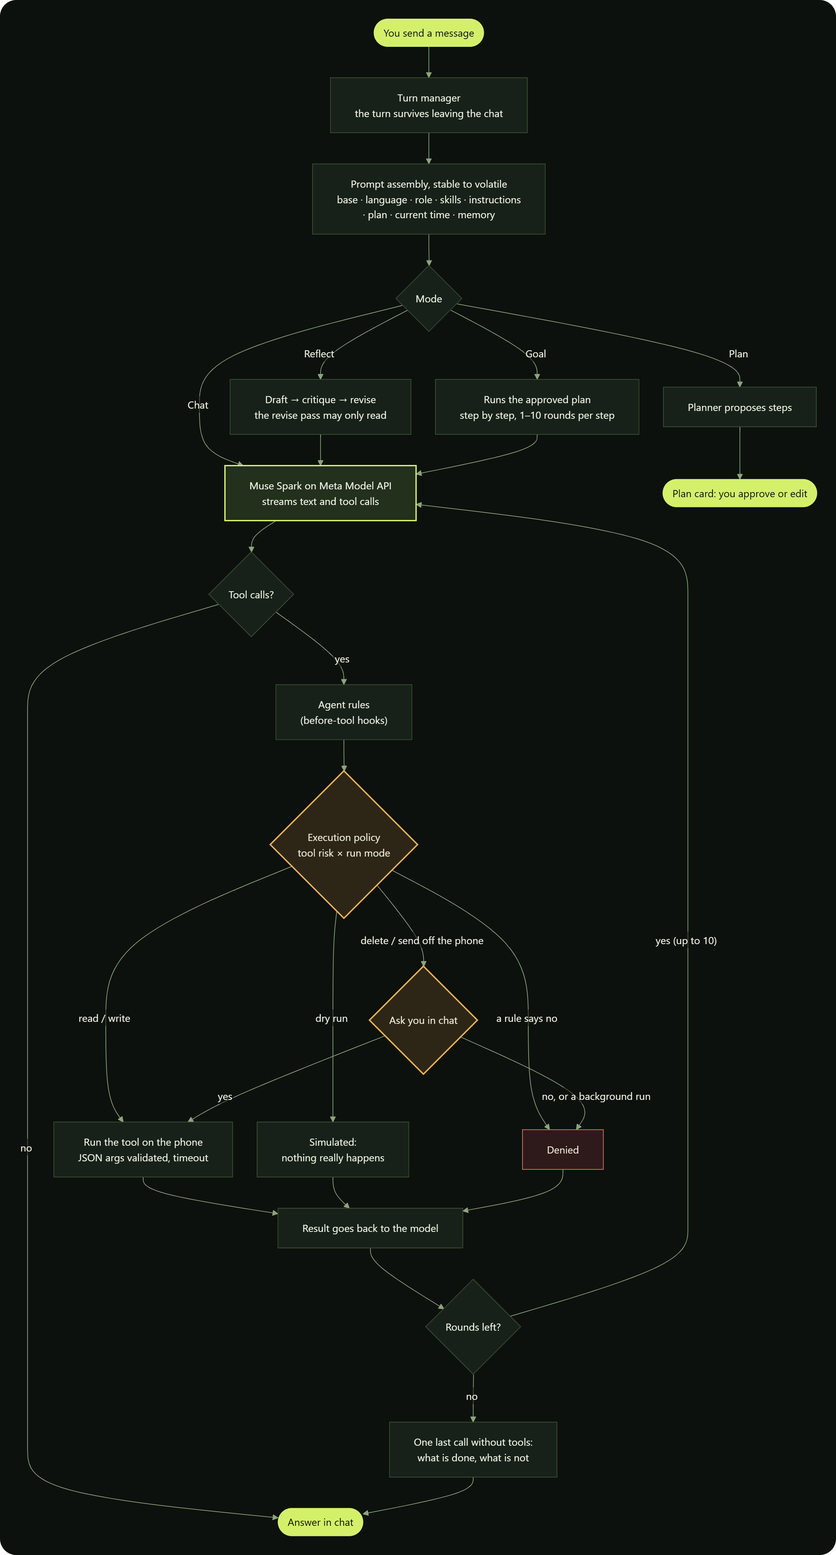
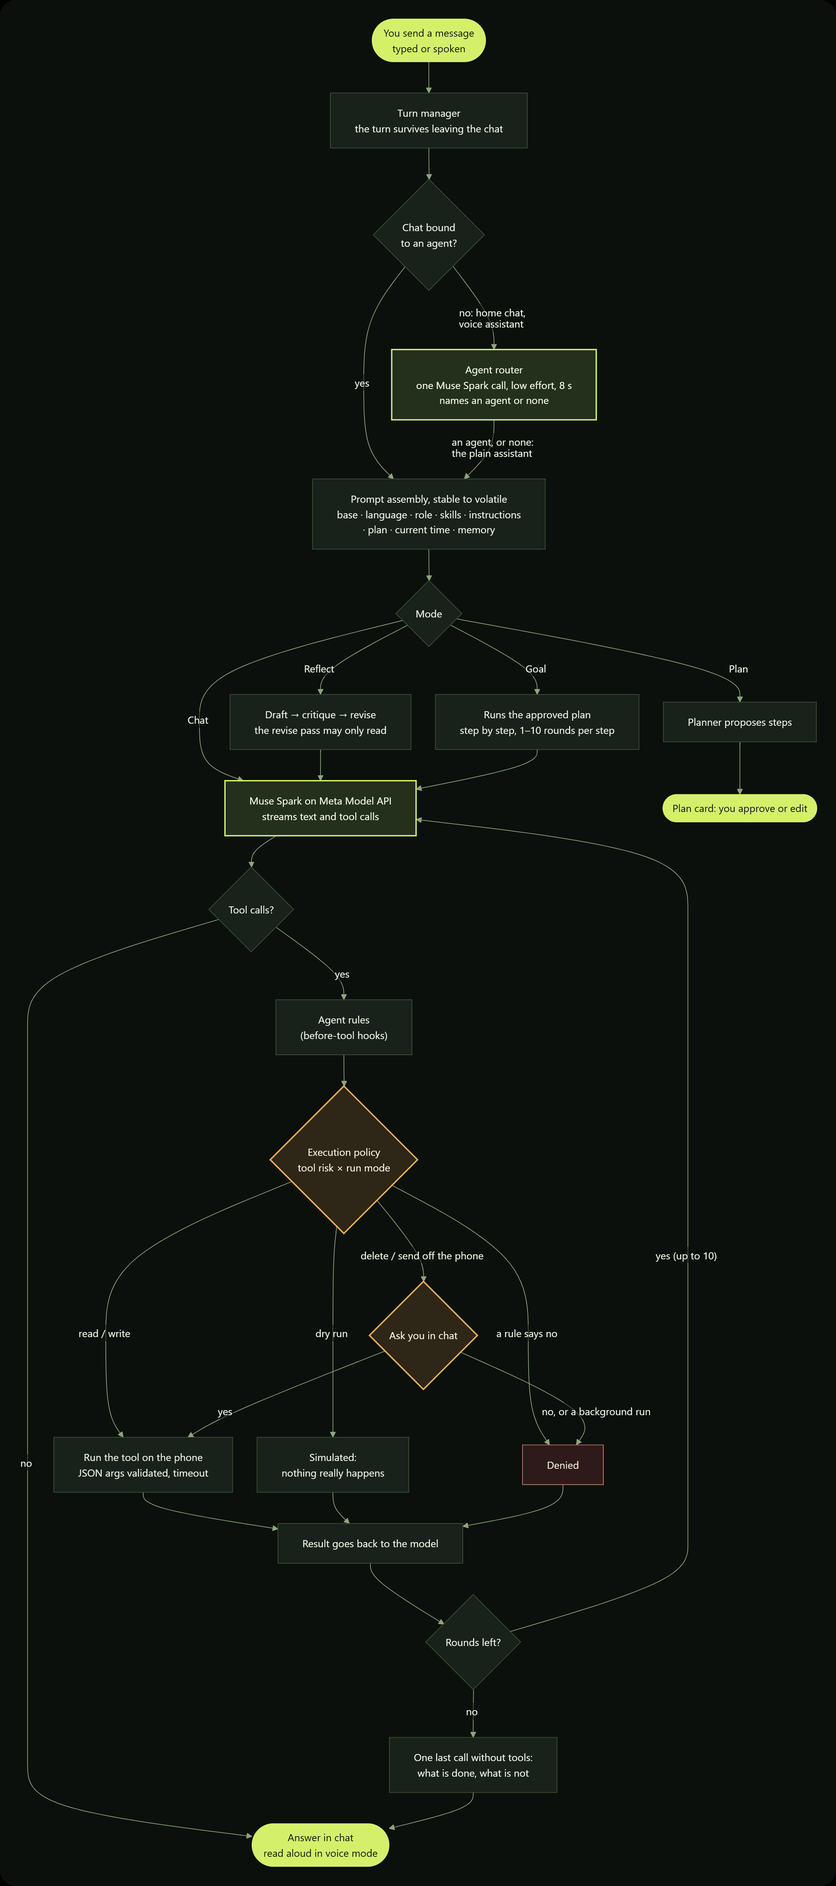
docs(readme): how it fits together, the agent loop, Meta and cloud screens
The README now explains the three places the project runs (phone, Meta
Model API, the forge) and walks through each with a diagram: an overview,
the agent turn with the new router step, which Meta endpoint and model each
feature uses, how one model call retries and falls back, the forge sequence
from publish to a verified bundle, and the states of a cloud screen on the
phone. Sources are Mermaid files in docs/diagrams, rendered once on the
app's dark palette as before.

Trace: cloud-forged-screens-40d702

diff --git a/README.md b/README.md
@@ -9,6 +9,7 @@ agents but too shy to ask.**
 ![Kotlin](https://img.shields.io/badge/Kotlin-2.3-7F52FF?logo=kotlin&logoColor=white)
 ![Jetpack Compose](https://img.shields.io/badge/Jetpack%20Compose-UI-4285F4?logo=jetpackcompose&logoColor=white)
 ![Meta Muse](https://img.shields.io/badge/Meta-Muse%20Spark%20%C2%B7%20Image%20%C2%B7%20SAM-0467DF?logo=meta&logoColor=white)
+![Ketoy](https://img.shields.io/badge/Ketoy-screens%20over%20the%20air-7CC7DB)
 ![License: MIT](https://img.shields.io/badge/License-MIT-lightgrey)
 
 <br/>
@@ -28,6 +29,14 @@ agents but too shy to ask.**
 <img src="docs/images/agent-detail.jpg" width="200" alt="One agent: tools, skills, rules and its instructions"/>
 </details>
 
+<br/>
+
+[How it fits together](#how-it-fits-together) ·
+[The agent loop](#the-agent-loop) ·
+[Working with Meta](#working-with-meta) ·
+[Screens from the cloud](#screens-from-the-cloud) ·
+[Build and run](#build-and-run)
+
 </div>
 
 AI Open Pocket is an Android platform for building AI agents on Meta's Muse models, with learning
@@ -44,36 +53,67 @@ for your yes.
 - 🛠 **Build.** Describe the agent in a chat: Muse Spark asks a few questions at a time, with 3–4
   options to tick, and writes the draft. Review every field on one screen, dry-run it, publish.
 - 🤖 **Run.** Agents live on the phone: a tool-calling loop, layered memory, web search, reminders,
-  background check-ins, and a plan engine whose steps are checked against evidence. The app can also
-  be the phone's voice assistant and read its replies aloud.
+  background check-ins, and a plan engine whose steps are checked against evidence.
+- 🧭 **Just ask.** The home chat and the voice assistant need no agent picked: Muse Spark hands each
+  message to the agent whose job it is ("remind me…" goes to Reminders), or answers itself.
+- 🎙 **Talk to it.** The app can be the phone's voice assistant: the assist button opens a chat that
+  is already listening, and the answer is read aloud.
+- ☁ **Give it an interface.** Tick "Own interface (beta)" when you publish: a coding agent on Muse
+  writes the agent a screen of its own in Compose, in the cloud, and the app renders it over the air.
+  No app update.
 - 🎓 **Learn.** 31 short lessons, from "what is an AI" to building your own agent, each with an
   interactive scene you can touch. Meta's models work live inside some of them.
 - 🔒 **Stay in control.** Reading and writing just happen. Deleting or sending anything off the device
   always asks you in chat, and is never done in the background.
-- ☁ **Give it an interface.** Tick "Own interface (beta)" when you publish an agent: a coding agent on
-  Muse writes it a screen of its own in Compose, in the cloud, and the app renders it over the air.
-  No app update.
 
-## How an agent turn works
+## How it fits together
 
-Every message you send becomes one *turn*. The turn belongs to the app, not to the screen: leave the
-chat and it keeps going. Inside, the same loop runs for every agent — the model thinks, calls tools,
+Three places, one key. **The phone** runs the agents: the router, the loop, the tools and your
+approvals all live in the app, and so does your data. **Meta's Model API** is the only place a model
+runs; the app talks to nothing else, on the key you entered. **The forge** is optional: a small
+server you run yourself, where a coding agent on the same Muse model writes screens for your agents.
+
+<p align="center"><img src="docs/images/diagram-architecture.png" width="760" alt="The phone (router, agent loop, on-device tools, the agent's own screen), Meta Model API (Muse Spark and Wonder, web_search, SAM 3.1, Muse Image) and the forge (gateway and worker)"/></p>
+
+## The agent loop
+
+Every message becomes one *turn*. The same loop runs for every agent — the model thinks, calls tools,
 reads their results, and repeats until it can answer.
 
-<p align="center"><img src="docs/images/diagram-agent-turn.png" width="860" alt="One agent turn: prompt assembly, the mode, Muse Spark, tool calls through the execution policy and your approval, up to 10 rounds, then the answer"/></p>
+<p align="center"><img src="docs/images/diagram-agent-turn.png" width="860" alt="One agent turn: turn manager, the router for unbound chats, prompt assembly, the mode, Muse Spark, tool calls through the execution policy and your approval, up to 10 rounds, then the answer"/></p>
 
-Four things keep this loop honest:
+Step by step:
 
-- **Risk classes.** Every tool call is `READ`, `WRITE`, `DESTRUCTIVE` or `EXTERNAL`. The last two
-  always wait for a person, no rule can remove that floor, and a background run simply denies them.
-- **Errors the model can act on.** A failed tool, a timeout or arguments that are not valid JSON come
-  back as a tool result that names the real problem, so the model can fix its next call.
-- **Every run ends with an answer.** At the round limit the model gets one tool-less call to say what
-  it did and what is left.
-- **Plans are checked.** In Goal mode each plan step is verified against what the tools actually
-  returned before it counts as done.
+1. **The turn belongs to the app, not to the screen.** A turn manager in the application scope owns
+   the stream, the tool loop and the final write to the database. Leave the chat, lock the phone —
+   the answer is there when you come back, and a turn that needs you sends a notification.
+2. **Who answers.** A chat opened from an agent's card is bound to that agent. The home chat and the
+   voice assistant are not, so before the turn starts the **router** makes one short Muse Spark call
+   (low reasoning effort, no tools, 8 seconds at most): it sees each agent's name, job and tools and
+   names one id, or `none`. Anything else — an unknown id, two ids, a timeout, an error — means the
+   plain assistant answers; routing is never the reason a message goes unanswered. The chip next to
+   the mode chips can also fix the choice: "auto", "no agent" or one agent. The answer is labelled
+   "→ Reminders", so you see who took it.
+3. **The prompt is assembled from stable to volatile:** base rules, language, the agent's role, the
+   catalog of its skills, its instructions, then the plan, the current time and what memory recalls.
+   The order is deliberate: Meta caches the shared prefix, so the stable part is not paid for twice.
+4. **The mode decides the shape of the turn.** Chat goes straight to the model. Reflect drafts,
+   critiques and revises (the revision may only read). Plan asks a planner for steps and shows them as
+   a card you approve or edit. Goal runs an approved plan step by step, and each step is checked
+   against what the tools actually returned before it counts as done.
+5. **The model streams text and tool calls.** Text appears as it is written; tool calls are collected
+   and run between rounds.
+6. **Every tool call passes the agent's rules and the execution policy.** Each tool has a risk class:
+   `READ`, `WRITE`, `DESTRUCTIVE` or `EXTERNAL`. Reads and writes run on the phone with validated JSON
+   arguments and a timeout. Deleting or sending off the phone waits for your "yes" in the chat; no rule
+   can remove that floor, and a background run simply denies it. A dry run simulates everything but
+   reads.
+7. **Errors go back to the model as results.** A failed tool, a timeout or arguments that are not
+   valid JSON return a message that names the real problem, so the next call can fix it.
+8. **Every run ends with an answer.** After 10 rounds the model gets one last call without tools to
+   say what is done and what is not.
 
-## What an agent is made of
+### What an agent is made of
 
 An agent is one immutable snapshot. Editing and publishing again produces a new version, so a turn
 that is already running never sees half an edit.
@@ -91,51 +131,45 @@ And this is how one gets from an idea to your roster:
 
 The Builder can only write a draft. Publishing is always a person tapping a button.
 
-<sub>The diagrams are drawn from Mermaid sources in <a href="docs/diagrams"><code>docs/diagrams/</code></a>.</sub>
+## Working with Meta
 
-## Cloud-forged screens
+Every model call goes to the **Meta Model API** (`api.meta.ai/v1`) on the key you enter, and nowhere
+else. There is no other provider, no bundled key and no silent switch to another vendor.
 
-An agent built on the phone can get a screen of its own without an app update. On the review page
-of the builder you choose where the agent lives: in the chat, or in its **own interface (beta)**.
-Publish, and the app queues a job at the **forge gateway** from the agent's name, description and
-instructions; the chat says "your interface is being built - use the chat meanwhile" and keeps
-working. A **worker** on a machine with the Android SDK runs our own tool-calling loop on Muse
-Spark - the same ReAct shape as the agent loop, with file and Gradle tools instead of phone tools -
-until one minimal screen compiles; the [Ketoy](https://ketoy.dev) compiler turns it into a signed
-bundle; the app downloads the bundle, checks its hash and signature, and from then on opens the
-agent in that screen, full screen, with the chat one tap away. The agent's card keeps the levers:
-the Chat / Own interface switch, "add a reset button" (the worker gets the current source back),
-Regenerate, and the agent's own question if the request was unclear.
+<p align="center"><img src="docs/images/diagram-meta-models.png" width="820" alt="Which part of the app uses which Meta endpoint and model: chat completions for agents and video, the Responses API for web search and SAM 3.1, image generations for Muse Image"/></p>
 
-```
-phone ──POST job──▶ gateway (Ktor, Fly.io) ◀──long-poll── worker (Muse Spark + Gradle + Ketoy)
-      ◀─poll/.ktx──                        ──.ktx──────▶
-```
-
-What has to agree on both sides: the forge's Ed25519 public key (shipped in the app's assets), the
-Ketoy version, and the entry-point name the worker reports. The gateway token and address are yours,
-entered in Settings; nothing is bundled into any build. The forge itself is a separate Gradle build
-in [`forge/`](forge/README.md): the compiler plugin pins Kotlin 2.0.21, the app stays on Kotlin 2.3.
-
-## Built on Meta models
-
-- **Muse Spark** — the brain of every agent: the tool loop, reflection, plans, the Builder chat,
-  onboarding and every lesson question. In the "How a model sees" lesson it also watches a short video
-  and explains what it saw and what it is unsure about.
+- **Muse Spark** is the brain of every agent: the tool loop, reflection, plans, the router, the
+  Builder chat, onboarding and every lesson question. In the "How a model sees" lesson it also
+  watches a short video and says what it saw and what it is unsure about.
 - **Muse Wonder** — an agent built for long multi-step work can run on it instead, as Meta's agent
-  guide suggests.
-- **Web search** — Meta's hosted `web_search` tool, reached through the Responses API, gives agents
-  fresh facts with links to the pages they came from.
-- **Muse Image** — illustrates the course (generated ahead of time and bundled, so lessons work
-  offline) and redraws a lesson scene around the learner on request.
+  guide suggests. The model is the agent's own setting; the app default is automatic.
+- **Web search** is Meta's hosted `web_search` tool, reached through the Responses API: an agent gets
+  fresh facts back with the pages they came from, and quotes them as links.
 - **SAM 3.1** — in the same lesson you name one thing in a photo (yours or a bundled example) and SAM
   outlines every instance of it.
+- **Muse Image** illustrates the course (generated ahead of time and bundled, so lessons work
+  offline) and redraws a lesson scene around the learner on request.
 
-Every model call goes to the **Meta Model API** (`api.meta.ai`) and nowhere else: `muse-spark-1.3`,
-`muse-spark-1.2`, `muse-spark-1.1` and `muse-wonder-1.0`. Fallback happens only between those models.
-Model variants that the vendor trains on (`-contributor`) are filtered out everywhere. Without a key
-the app does not guess or fall back: every model action says "add your Meta API key" and points to
-Settings.
+### One model call
+
+<p align="center"><img src="docs/images/diagram-meta-call.png" width="820" alt="One model call: no key means no call; the model chain; POST chat completions; retries with backoff on 429/500/503; the next model; stop on key errors; no switch mid-answer"/></p>
+
+- **No key, no call.** Without a key every model action says "add your Meta API key" and points to
+  Settings. The app does not guess and does not fall back to anything.
+- **A chain of Meta models, not of vendors:** `muse-spark-1.3`, `1.2`, `1.1` and `muse-wonder-1.0`,
+  with the agent's own model first. Model versions the vendor trains on (`-contributor`) and models
+  without tool calling are removed from the chain wherever it is built.
+- **Transient errors are retried the way Meta's error guide says.** 429, 500 and 503 ask the same
+  model again with exponential backoff and honour `Retry-After`, up to three tries and 20 seconds of
+  waiting per turn. Only then does the chain move to the next model, five at most.
+- **Some errors stop at once.** A rejected key or an empty balance (401, 402, 403) would fail on every
+  model, so the turn stops and says what is wrong with the key. And once the first words of an answer
+  are on screen, the app never switches model mid-answer; you get a Retry button instead.
+- **Reasoning effort per mode:** `low` for lesson questions and the router, `medium` for chat, `high`
+  for planning and self-critique.
+- **Every call is metered.** Meta reports tokens; the app prices them from Meta's price list (the
+  cached part of the prompt at its own price, web searches and SAM pictures per call) and shows the
+  week's spend on your Profile.
 
 <details>
 <summary><b>Following Meta's agent guidance</b></summary>
@@ -143,11 +177,9 @@ Settings.
 The agent loop was checked against the Meta Model API docs (tool calling, reasoning, prompt caching,
 error handling, agent frameworks) and the Muse Code permission model:
 
-- **Stable prompt prefix.** The system prompt runs from stable to volatile (base, language, role,
-  skills, instructions, then plan, current time, memory), so Meta's automatic prefix cache survives
-  from turn to turn.
-- **Reasoning effort per mode.** Lesson questions run at `low`, chat at `medium`, planning and
-  self-critique at `high`, instead of leaving the level to the model.
+- **Stable prompt prefix.** The system prompt runs from stable to volatile, so Meta's automatic prefix
+  cache survives from turn to turn.
+- **Reasoning effort per mode,** instead of leaving the level to the model.
 - **Every run ends with an answer.** At the step limit the model gets one tool-less call to say what is
   done and what is not.
 - **Errors the model can act on.** A failed tool, a timeout or arguments that are not valid JSON go back
@@ -160,19 +192,78 @@ error handling, agent frameworks) and the Muse Code permission model:
   consent, and the Instructions step checks the prompt against Meta's prompting guide (role, format,
   length, tone).
 - **The right model for the job.** A built agent can run on Muse Wonder (long multi-step work) or
-  Muse Spark (faster and cheaper), as Meta's agent guide suggests.
+  Muse Spark (faster and cheaper).
 
 </details>
 
-## Your key, your quota
+### Your key, your quota
 
 - **Enter your own Meta Model API key in onboarding or in Settings. Nothing is bundled.** The key is
   stored in `EncryptedSharedPreferences` behind an Android Keystore master key and goes only to Meta.
 - No key lives in this repository, and no key is compiled into any build, debug included: the build
   has no step that copies `.env` or anything else into `BuildConfig`. `tools/check.py` fails if one
   ever comes back, and scans the built APK for provider keys.
-- Every model call is metered in a weekly spend card on your Profile. Meta reports tokens only, so the
-  app prices Meta calls (and each web search) from Meta's price list.
+
+## Screens from the cloud
+
+A chat is not the right interface for every agent. A water tracker wants eight glasses to tap, a
+budget agent wants a few numbers and a button. So an agent built on the phone can get **a screen of
+its own, written by another agent, delivered without an app update.**
+
+On the builder's review page you choose where the agent lives: in the chat, or in its **own interface
+(beta)**. Publish, and the rest happens on its own:
+
+<p align="center"><img src="docs/images/diagram-forge-flow.png" width="860" alt="The forge sequence: the app posts a job, the worker long-polls it, the coding agent on Muse Spark writes and compiles the screen, may ask one question, uploads a signed bundle; the app polls, downloads, checks hash and signature, and opens the screen"/></p>
+
+**The gateway** (`forge/gateway`, Ktor, runs on Fly.io or locally) is a job queue and a bundle store
+with two bearer tokens: one for the app, one for the worker. It never runs a model.
+
+**The worker** (`forge/worker`) is a JVM app on any machine with the Android SDK. It long-polls the
+gateway for the next job and hands it to **the coding agent**: our own tool-calling loop on Muse
+Spark, the same ReAct shape as the agent loop on the phone, with five tools instead of phone tools —
+`list_files`, `read_file`, `write_screen`, `build_bundle`, `finish`. The model sees the agent's name,
+description and instructions, the Ketoy catalog of what may be used, and its rules in
+[`forge/AGENTS.md`](forge/AGENTS.md).
+
+- **Every limit lives in code, not in the prompt:** 25 model calls, 15 minutes, three failed builds in
+  a row, three replies that call no tool. Whichever trips first ends the job as failed, with the tail
+  of the last build log, so you see why.
+- **The compiler is the reviewer.** `build_bundle` runs Gradle and the [Ketoy](https://ketoy.dev)
+  compiler; the first error goes back to the model as the tool's result, and it fixes the code.
+- **Rules learned the hard way are enforced before the build.** Ketoy interprets the screen at run
+  time, and some code compiles but crashes the interpreter: ranges like `0..7`, `toFloat()`, nullable
+  values, lambda parameters. `write_screen` rejects them before the build, with a sentence that says
+  what to write instead.
+- **One question, if it really needs one.** When the request is unclear the agent finishes with
+  `needs_info`; the question appears on the agent's card, your answer queues the job again.
+- **Changes build on the last screen.** An update such as "add a reset button" sends the current
+  source back to the agent, so it edits rather than starts over; Regenerate starts from scratch.
+
+**The phone** never trusts a download it cannot check:
+
+- The gateway reports the bundle's SHA-256; a download that does not match is refused.
+- The worker signs every bundle with an Ed25519 key that lives only on the worker machine. The app
+  ships the public key; a bundle signed with anything else renders the app's own fallback, not the
+  screen.
+- A crash sentinel guards the interpreter. Compose has no error boundary, so a flag is written right
+  before the bundle renders and cleared once it has loaded. If the process dies in between, the next
+  launch shows "this screen crashed the app" with Try again and Remove, not a crash loop.
+- Polling runs in the application scope, like turns: every 3 seconds, then every 6, and it gives up
+  after 15 minutes or 5 network failures in a row.
+
+<p align="center"><img src="docs/images/diagram-forge-states.png" width="520" alt="The states of an agent's screen on the phone: requested, working, needs info, ready, failed, with the transitions between them"/></p>
+
+Once the screen is **Ready**, the agent opens in it, full screen, with the chat one tap away. The
+agent's card keeps the controls: the Chat / Interface switch, Update (describe a change), Regenerate,
+Remove, and the agent's question if it has one.
+
+What has to agree on both sides: the Ketoy version (0.4.20-alpha), the forge's public key (shipped in
+the app's assets) and the entry-point name the worker reports. The gateway address and token are
+yours, entered in Settings; nothing is bundled into any build. The forge is a separate Gradle build in
+[`forge/`](forge/README.md) because the Ketoy compiler plugin pins Kotlin 2.0.21 while the app is on
+Kotlin 2.3; the app only needs Ketoy's runtime.
+
+<sub>All diagrams are drawn from Mermaid sources in <a href="docs/diagrams"><code>docs/diagrams/</code></a>.</sub>
 
 ## Build and run
 
@@ -195,25 +286,32 @@ From the command line:
 ./gradlew :app:testDebugUnitTest
 ```
 
+For screens from the cloud, run the gateway and a worker as described in
+[`forge/README.md`](forge/README.md), then enter the gateway address and token in Settings.
+
 ## Project layout
 
-All code is in the `app` module, under `app/src/main/java/com/aiopenpocket/`:
+All app code is in the `app` module, under `app/src/main/java/com/aiopenpocket/`:
 
 | Package | What lives there |
 | --- | --- |
 | `agent/loop` | One agent turn: the tool-calling loop, reflection, plan orchestration, `TurnManager` (turns survive leaving the chat screen) |
-| `agent/core/llm` | Streaming client for Meta Model API, web search, the model catalog, Meta pricing |
+| `agent/core/llm` | Streaming client for Meta Model API, web search, SAM, Muse Image, the model catalog, Meta pricing |
+| `agent/core/agent` | User-built agents and the agent router |
 | `agent/core/mcp`, `agent/tools` | On-device tools: JSON schemas, validation, risk classes, the approval flow |
 | `agent/core/plan` | The structured plan engine |
-| `agent/core/agent`, `skill`, `hook`, `policy` | User-built agents, skills, rules (hooks) and the execution policy |
+| `agent/core/skill`, `hook`, `policy` | Skills, rules (hooks) and the execution policy |
 | `agent/core/memory`, `profile`, `prompt` | Memory layers, user profile, prompt assembly |
+| `agent/core/forge`, `ui/forge` | Screens from the cloud: the gateway client, job state, the Ketoy host |
 | `agent/core/lesson` | Lessons as strict step contracts in chat |
 | `agent/workers` | WorkManager: reminders and background check-ins |
+| `voice` | The voice assistant session |
 | `ui/` | Jetpack Compose screens: chat, agents and the builder, the course, profile, settings |
 | `i18n/` | Interface language: Russian and English side by side in one `tr(ru, en)` call |
 
 Lessons are JSON in `app/src/main/assets/lessons/`; the model catalog is in
-`app/src/main/assets/config/`.
+`app/src/main/assets/config/`. The forge (`contract`, `gateway`, `worker`, `screens`) is its own
+Gradle build in `forge/`.
 
 ## Traceability
 
@@ -223,14 +321,14 @@ code that changed since its reason was last confirmed.
 
 ## Stack
 
-Kotlin, Jetpack Compose, Metro DI, Ktor (SSE streaming), Room, WorkManager, Coil. Tests: JUnit,
+Kotlin, Jetpack Compose, Metro DI, Ktor (SSE streaming), Room, WorkManager, Coil, Ketoy. Tests: JUnit,
 Robolectric and Roborazzi screenshot tests; `.github/workflows/android.yml` builds the app and runs
 them.
 
 ## Before and during the hackathon
 
 The Meta Global AI Developer Hackathon window is Oct 27 – Nov 4, 2026. Dates are in git:
-`git log --since=2026-10-27` lists what was built inside the window (134 of 575 commits as of Nov 1).
+`git log --since=2026-10-27` lists what was built inside the window.
 
 **Before (up to Oct 26).** The platform already existed: the agent loop with tools and memory, the
 step-by-step builder, the lesson engine with its interactive scenes, and the plan engine. Meta models
@@ -252,6 +350,10 @@ interface on the demo path with three lessons translated.
 - **Web search** through Meta's hosted `web_search` tool, always with sources (`cf9588b9`).
 - **Voice assistant.** The app can be the phone's assistant: the assist button opens a chat that is
   already listening, sends what was said, and reads the reply aloud (`8c91a07b`).
+- **The agent router.** The home chat and the voice assistant hand each message to the right agent
+  (`9e511fb9`).
+- **Screens from the cloud.** A coding agent on Muse Spark writes an agent its own screen, delivered
+  as a signed Ketoy bundle (`2786546c`, merged in `a9a07336`).
 - **The whole course in English**: 31 lessons and their scenes, up from 3 (`59cd9b70`..`86f89103`).
   Every lesson on the Path now opens in any order (`c08de0e0`).
 - **Profile**: the person's own data and what the assistant remembers about them (`683f3f41`).
